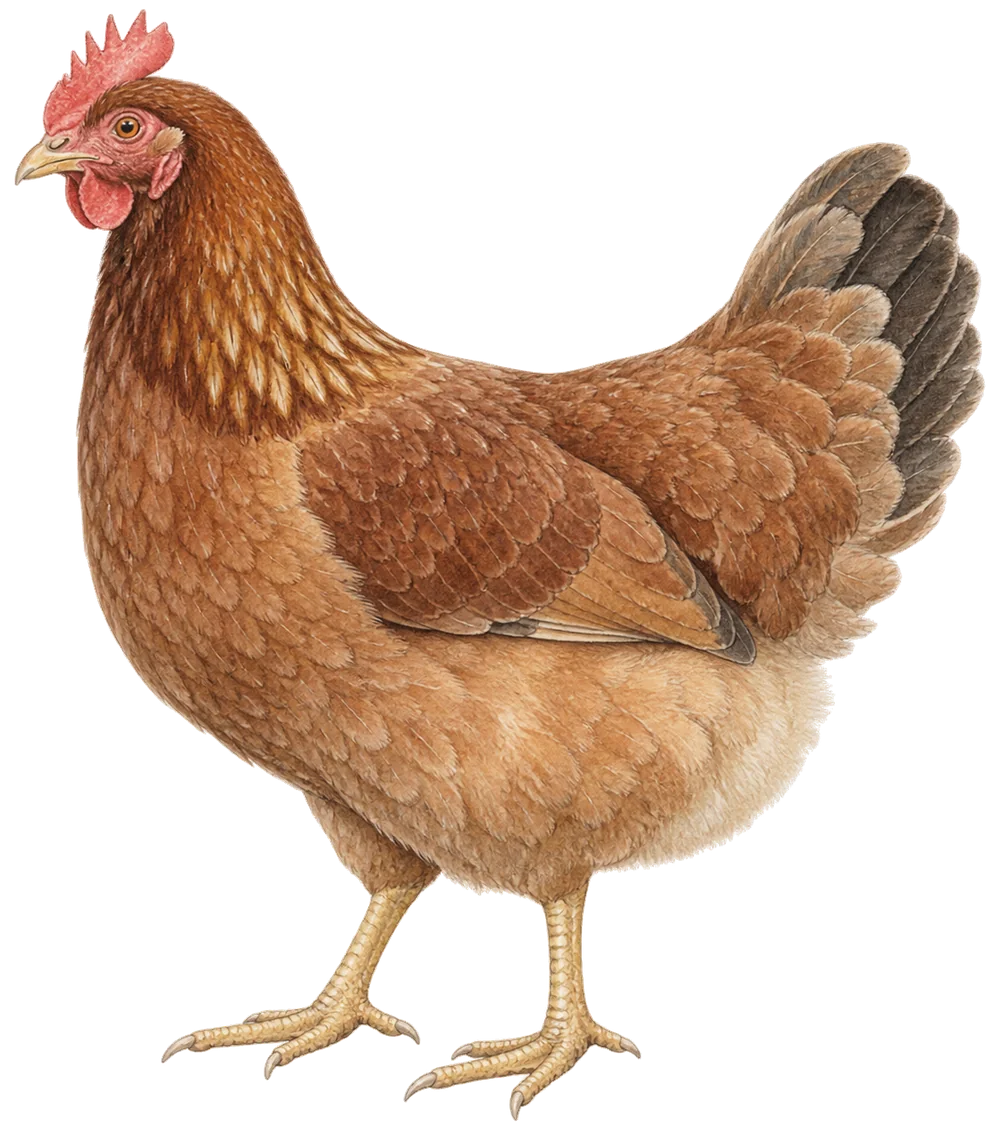
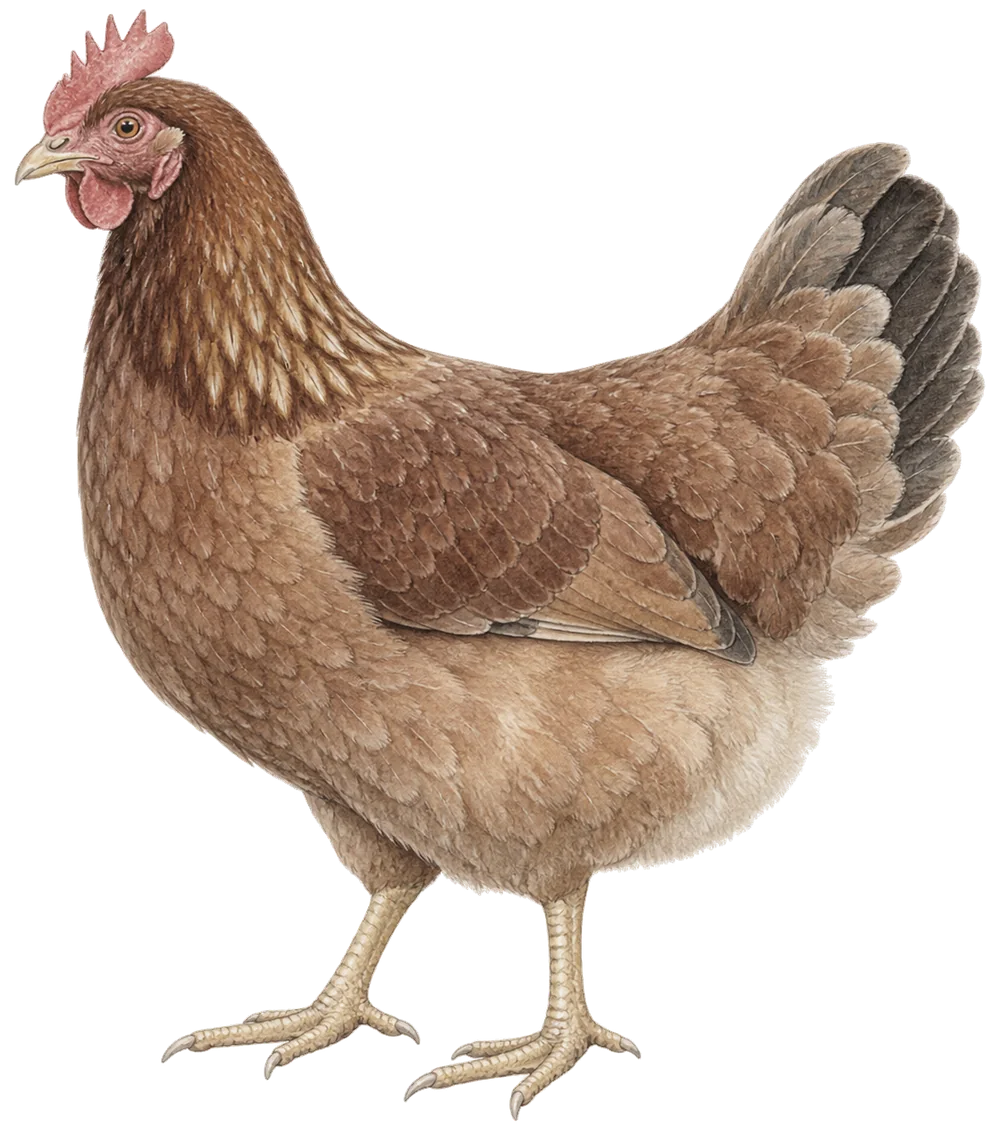
web: todas las ilustraciones en acuarela cientifica, con el mismo tono apagado

diff --git a/web/src/components/figura.tsx b/web/src/components/figura.tsx
@@ -70,7 +70,7 @@ export interface DefinicionFigura {
 export const FIGURAS: DefinicionFigura[] = [
   {
     id: "caja",
-    src: "/ilustraciones/caja-recipiente.webp",
+    src: "/acuarelas/caja-recipiente.webp",
     titulo: "La caja y su tapa, limpias y listas",
     alt: "Una caja plástica rectangular transparente con su tapa.",
     cuando: "Cuando pregunten qué caja sirve, de qué tamaño, o cómo empezar.",
@@ -88,7 +88,7 @@ export const FIGURAS: DefinicionFigura[] = [
   },
   {
     id: "ventilacion",
-    src: "/ilustraciones/caja-ventilacion.webp",
+    src: "/acuarelas/caja-ventilacion.webp",
     titulo: "La ventana de ventilación en la tapa",
     alt: "La tapa de la caja vista desde arriba, con una ventana rectangular cubierta de malla fina.",
     cuando:
@@ -96,14 +96,14 @@ export const FIGURAS: DefinicionFigura[] = [
   },
   {
     id: "sustrato",
-    src: "/ilustraciones/caja-sustrato.webp",
+    src: "/acuarelas/caja-sustrato.webp",
     titulo: "La cama pareja en el fondo",
     alt: "Un montón pequeño de sustrato seco de viruta y cartón picado.",
     cuando: "Cuando pregunten por la cama, el sustrato o qué poner en el fondo.",
   },
   {
     id: "refugios",
-    src: "/ilustraciones/caja-refugios.webp",
+    src: "/acuarelas/caja-refugios.webp",
     titulo: "Las hueveras paradas, como un acordeón",
     alt: "Dos hueveras de cartón puestas de pie, una junto a la otra.",
     cuando:
@@ -111,7 +111,7 @@ export const FIGURAS: DefinicionFigura[] = [
   },
   {
     id: "agua",
-    src: "/ilustraciones/caja-agua.webp",
+    src: "/acuarelas/caja-agua.webp",
     titulo: "El alimento y el agua, cada uno en lo suyo",
     alt: "Un bebedero pequeño con algodón húmedo en el plato y, al lado, un pedazo de manzana.",
     cuando:
@@ -137,7 +137,7 @@ export const FIGURAS: DefinicionFigura[] = [
   },
   {
     id: "donde-buscar",
-    src: "/ilustraciones/donde-buscar.webp",
+    src: "/acuarelas/donde-buscar.webp",
     titulo: "Dónde buscarlos: hojarasca, leña y piedra",
     alt: "Un rincón de patio con hojarasca acumulada, leña vieja apilada y un muro bajo de piedra, alumbrado por una linterna.",
     cuando:
@@ -145,7 +145,7 @@ export const FIGURAS: DefinicionFigura[] = [
   },
   {
     id: "trampa-vaso",
-    src: "/ilustraciones/trampa-vaso.webp",
+    src: "/acuarelas/trampa-vaso.webp",
     titulo: "Trampa de vaso enterrado",
     alt: "Corte del suelo: un vaso plástico enterrado a ras de tierra con un pedazo de fruta dentro, y encima una teja apoyada en dos piedras que deja un hueco de entrada y tapa la lluvia.",
     cuando:
@@ -153,7 +153,7 @@ export const FIGURAS: DefinicionFigura[] = [
   },
   {
     id: "atrapar-mano",
-    src: "/ilustraciones/atrapar-mano.webp",
+    src: "/acuarelas/atrapar-mano.webp",
     titulo: "Atraparlos a mano, sin apretar",
     alt: "Dos manos: una baja ahuecada sobre un grillo posado en el suelo y la otra espera al lado para cerrar el hueco entre ambas.",
     cuando:
@@ -161,7 +161,7 @@ export const FIGURAS: DefinicionFigura[] = [
   },
   {
     id: "trampa-carton",
-    src: "/ilustraciones/trampa-carton.webp",
+    src: "/acuarelas/trampa-carton.webp",
     titulo: "Cartón enrollado y huevera como refugio",
     alt: "Un pedazo de cartón corrugado enrollado y una huevera de cartón, con grillos metidos entre los pliegues.",
     cuando:
@@ -169,7 +169,7 @@ export const FIGURAS: DefinicionFigura[] = [
   },
   {
     id: "identificar",
-    src: "/ilustraciones/identificar.webp",
+    src: "/acuarelas/identificar.webp",
     titulo: "Grillo arriba, saltamontes abajo: mire las antenas",
     alt: "Dos insectos de perfil: arriba un grillo con antenas muy largas; abajo un saltamontes con antenas cortas.",
     cuando:
@@ -177,7 +177,7 @@ export const FIGURAS: DefinicionFigura[] = [
   },
   {
     id: "macho-hembra",
-    src: "/ilustraciones/macho-hembra.webp",
+    src: "/acuarelas/macho-hembra.webp",
     titulo: "La hembra lleva una aguja atrás; el macho no",
     alt: "Dos grillos de perfil: arriba una hembra con un ovipositor largo y recto saliendo del abdomen; abajo un macho sin él.",
     cuando:
@@ -185,7 +185,7 @@ export const FIGURAS: DefinicionFigura[] = [
   },
   {
     id: "ciclo",
-    src: "/ilustraciones/ciclo.webp",
+    src: "/acuarelas/ciclo.webp",
     titulo: "Huevo, ninfa y adulto",
     alt: "Tres etapas en fila: un huevo ovalado, una ninfa pequeña sin alas y un grillo adulto con alas.",
     cuando:
@@ -193,7 +193,7 @@ export const FIGURAS: DefinicionFigura[] = [
   },
   {
     id: "cosecha",
-    src: "/ilustraciones/cosecha.webp",
+    src: "/acuarelas/cosecha.webp",
     titulo: "Un cedazo para separar, un frasco para guardar",
     alt: "Un cedazo circular de marco de madera sobre una mesa y, al lado, un frasco de vidrio con tapa perforada.",
     cuando:
@@ -201,7 +201,7 @@ export const FIGURAS: DefinicionFigura[] = [
   },
   {
     id: "dieta-bore",
-    src: "/ilustraciones/ing-bore.webp",
+    src: "/acuarelas/ing-bore.webp",
     titulo: "D1: harina de bore",
     alt: "Una hoja grande de bore con un trozo de tallo y, al lado, un cuenco con harina fina.",
     cuando:
@@ -209,7 +209,7 @@ export const FIGURAS: DefinicionFigura[] = [
   },
   {
     id: "dieta-boton-oro",
-    src: "/ilustraciones/ing-boton-oro.webp",
+    src: "/acuarelas/ing-boton-oro.webp",
     titulo: "D2: harina de botón de oro",
     alt: "Una rama de botón de oro con dos flores y hojas lobuladas y, al lado, un cuenco con harina.",
     cuando:
@@ -217,7 +217,7 @@ export const FIGURAS: DefinicionFigura[] = [
   },
   {
     id: "dieta-salvado",
-    src: "/ilustraciones/ing-salvado.webp",
+    src: "/acuarelas/ing-salvado.webp",
     titulo: "D3: salvado de trigo",
     alt: "Un cuenco con salvado de trigo en escamas y, al lado, dos espigas de trigo.",
     cuando:
@@ -225,7 +225,7 @@ export const FIGURAS: DefinicionFigura[] = [
   },
   {
     id: "clima",
-    src: "/ilustraciones/caja-clima.webp",
+    src: "/acuarelas/caja-clima.webp",
     titulo: "El termómetro colgado adentro",
     alt: "Un termómetro-higrómetro digital pequeño.",
     cuando:

diff --git a/web/src/lib/content/enclosure.ts b/web/src/lib/content/enclosure.ts
@@ -110,56 +110,56 @@ export const MATERIALS: Material[] = [
 export const ENCLOSURE_STEPS: EnclosureStep[] = [
   {
     number: 1,
-    imagen: "/ilustraciones/caja-recipiente.webp",
+    imagen: "/acuarelas/caja-recipiente.webp",
     title: "Prepare la caja",
     body: "Lávela con agua y jabón suave, sin cloro fuerte, y séquela bien al sol. Revise que no tenga huecos ni grietas.",
     tip: "Los productos de olor fuerte, como el límpido puro, afectan a los grillos.",
   },
   {
     number: 2,
-    imagen: "/ilustraciones/caja-ventilacion.webp",
+    imagen: "/acuarelas/caja-ventilacion.webp",
     title: "Abra la ventilación",
     body: "Recorte un cuadrado grande en la tapa, dejando un marco de unos 4 cm. Pegue la malla por dentro, bien estirada, con silicona o cinta resistente.",
     tip: "Sin buena ventilación se acumula humedad y los grillos se enferman.",
   },
   {
     number: 3,
-    imagen: "/ilustraciones/caja-sustrato.webp",
+    imagen: "/acuarelas/caja-sustrato.webp",
     title: "Ponga el sustrato",
     body: "Cubra el fondo con una capa delgada de material seco. Ayuda a mantener la caja seca y facilita la limpieza.",
     tip: "No use materiales húmedos ni con olor a moho.",
   },
   {
     number: 4,
-    imagen: "/ilustraciones/caja-refugios.webp",
+    imagen: "/acuarelas/caja-refugios.webp",
     title: "Arme los refugios",
     body: "Coloque las hueveras de cartón paradas o cruzadas, formando túneles. Deje libre una esquina para el alimento y el agua.",
     tip: "Con más refugios hay menos peleas y mejor crecimiento.",
   },
   {
     number: 5,
-    imagen: "/ilustraciones/caja-alimento.webp",
+    imagen: "/acuarelas/caja-alimento.webp",
     title: "Ponga el alimento",
     body: "En la esquina libre, ponga una tapa o un plato bajo con la comida que esté usando.",
     tip: "Retire la comida vieja cada dos o tres días.",
   },
   {
     number: 6,
-    imagen: "/ilustraciones/caja-agua.webp",
+    imagen: "/acuarelas/caja-agua.webp",
     title: "Ponga el agua",
     body: "Ofrezca pedazos de manzana fresca. Si usa bebedero, póngale algodón o piedras pequeñas para que no se ahoguen.",
     tip: "Cambie el agua y la manzana cada dos días.",
   },
   {
     number: 7,
-    imagen: "/ilustraciones/caja-clima.webp",
+    imagen: "/acuarelas/caja-clima.webp",
     title: "Vigile el clima",
     body: "Ponga el termómetro-higrómetro dentro de la caja, en un lugar visible. Ubique la caja en un sitio tranquilo, sin sol directo ni corrientes de aire frío.",
     tip: "Si en la noche hace mucho frío, cubra parte de la caja con un trapo.",
   },
   {
     number: 8,
-    imagen: "/ilustraciones/caja-limpieza.webp",
+    imagen: "/acuarelas/caja-limpieza.webp",
     title: "Mantenga la caja limpia",
     body: "Cada dos o tres días retire la comida vieja y los grillos muertos. Cada semana limpie el fondo y cambie el sustrato si está sucio.",
     tip: "Si hay mal olor o charcos, aumente la ventilación y revise los bebederos.",

diff --git a/web/src/lib/animals.ts b/web/src/lib/animals.ts
@@ -33,19 +33,19 @@ export const CATEGORIAS: Categoria[] = [
   {
     id: "peces",
     name: "Peces",
-    image: "/ilustraciones/tilapia.webp",
+    image: "/acuarelas/tilapia.webp",
     pregunta: "¿Qué pez cría?",
   },
   {
     id: "aves",
     name: "Aves",
-    image: "/ilustraciones/pollo-engorde.webp",
+    image: "/acuarelas/pollo-engorde.webp",
     pregunta: "¿Qué tipo de ave cría?",
   },
   {
     id: "cerdos",
     name: "Cerdos",
-    image: "/ilustraciones/cerdo.webp",
+    image: "/acuarelas/cerdo.webp",
     pregunta: "¿En qué etapa están sus cerdos?",
   },
 ];
@@ -87,7 +87,7 @@ export const ANIMALS: AnimalDestino[] = [
     category: "peces",
     name: "Tilapia",
     scientific: "Oreochromis niloticus",
-    image: "/ilustraciones/tilapia.webp",
+    image: "/acuarelas/tilapia.webp",
     stages: [
       { id: "alevin", name: "Alevín", detail: "1 a 10 g", protein: { min: 35, max: 40, refs: ["fao-affris-tilapia"], nota: "Valores para tilapia del Nilo. No encontramos una fuente revisada específica para tilapia roja." } },
       { id: "juvenil", name: "Juvenil", detail: "10 a 25 g", protein: { min: 30, max: 35, refs: ["fao-affris-tilapia"], nota: "Valores para tilapia del Nilo. No encontramos una fuente revisada específica para tilapia roja." }, alias: ["crecimiento"] },
@@ -155,7 +155,7 @@ export const ANIMALS: AnimalDestino[] = [
     id: "pollo",
     category: "aves",
     name: "Pollo de engorde",
-    image: "/ilustraciones/pollo-engorde.webp",
+    image: "/acuarelas/pollo-engorde.webp",
     stages: [
       { id: "inicio", name: "Inicio", detail: "0 a 3 semanas", protein: { min: 23, max: 23, refs: ["nrc-1994-aves"], nota: "El NRC aclara que son niveles típicos de una dieta de maíz y soya." } },
       { id: "crecimiento", name: "Crecimiento", detail: "3 a 6 semanas", protein: { min: 20, max: 20, refs: ["nrc-1994-aves"], nota: "El NRC aclara que son niveles típicos de una dieta de maíz y soya." } },
@@ -180,7 +180,7 @@ export const ANIMALS: AnimalDestino[] = [
     id: "cerdo",
     category: "cerdos",
     name: "Cerdo",
-    image: "/ilustraciones/cerdo.webp",
+    image: "/acuarelas/cerdo.webp",
     stages: [
       { id: "inicio", name: "Inicio", detail: "5 a 11 kg", protein: { min: 22, max: 26, refs: ["msd-nrc-2012-cerdos"], nota: "Proteína aproximada para una dieta de maíz y soya; el NRC 2012 fija las necesidades en aminoácidos." } },
       { id: "crecimiento", name: "Levante", detail: "11 a 50 kg", protein: { min: 19.3, max: 23, refs: ["msd-nrc-2012-cerdos"], nota: "Proteína aproximada para una dieta de maíz y soya; el NRC 2012 fija las necesidades en aminoácidos." } },

diff --git a/web/src/components/grillos-pestanas.tsx b/web/src/components/grillos-pestanas.tsx
@@ -59,7 +59,7 @@ export function GrillosPestanas() {
                 b: f.saltamontes,
               }))}
               lamina={{
-                src: "/ilustraciones/identificar.webp",
+                src: "/acuarelas/identificar.webp",
                 alt: "Un grillo, de antenas largas, arriba, y un saltamontes, de antenas cortas, abajo.",
                 pie: "Arriba, un grillo; abajo, un saltamontes.",
               }}
@@ -76,7 +76,7 @@ export function GrillosPestanas() {
               columnas={["Hembra", "Macho"]}
               filas={MACHO_HEMBRA.map((f) => ({ rasgo: f.rasgo, a: f.hembra, b: f.macho }))}
               lamina={{
-                src: "/ilustraciones/macho-hembra.webp",
+                src: "/acuarelas/macho-hembra.webp",
                 alt: "Una hembra, arriba, con una aguja larga y recta al final del cuerpo, y un macho, abajo, sin ella.",
                 pie: "Arriba, la hembra con su ovipositor; abajo, el macho.",
               }}
@@ -225,7 +225,7 @@ function Crecimiento() {
         <figure className="lg:col-span-5">
           <div className="relative mx-auto h-32 w-full max-w-[420px] sm:h-40">
             <Image
-              src="/ilustraciones/ciclo.webp"
+              src="/acuarelas/ciclo.webp"
               alt="El ciclo de vida del grillo: huevo, ninfa sin alas y adulto con alas."
               fill
               sizes="(max-width: 1024px) 90vw, 420px"
@@ -332,7 +332,7 @@ function ImportanciaCaptura() {
           <h3 className="t-h2">Dónde buscarlos</h3>
           <div className="relative mt-6 h-44 w-full max-w-[360px]">
             <Image
-              src="/ilustraciones/donde-buscar.webp"
+              src="/acuarelas/donde-buscar.webp"
               alt="Hojarasca, leña vieja y piedras, donde se esconden los grillos."
               fill
               sizes="360px"

diff --git a/web/src/components/tres-comidas.tsx b/web/src/components/tres-comidas.tsx
@@ -17,9 +17,9 @@ import { cn } from "@/lib/utils";
  * cajas de la misma altura y la misma area, para que pesen igual.
  */
 const DIBUJO: Record<string, string> = {
-  D1: "/ilustraciones/ing-bore.webp",
-  D2: "/ilustraciones/ing-boton-oro.webp",
-  D3: "/ilustraciones/ing-salvado.webp",
+  D1: "/acuarelas/ing-bore.webp",
+  D2: "/acuarelas/ing-boton-oro.webp",
+  D3: "/acuarelas/ing-salvado.webp",
 };
 
 const QUE_ES: Record<string, string> = {
@@ -29,8 +29,8 @@ const QUE_ES: Record<string, string> = {
 };
 
 const BASE_DIBUJO: Record<string, string> = {
-  "Harina de maíz": "/ilustraciones/ing-maiz.webp",
-  "Avena molida": "/ilustraciones/ing-avena.webp",
+  "Harina de maíz": "/acuarelas/ing-maiz.webp",
+  "Avena molida": "/acuarelas/ing-avena.webp",
 };
 
 /** "30 % de harina de maíz + 20 % de avena molida" */

diff --git a/web/src/components/lamina-normalizada.tsx b/web/src/components/lamina-normalizada.tsx
@@ -12,15 +12,15 @@ import { cn } from "@/lib/utils";
  * parejas a la vista.
  */
 const PROPORCION: Record<string, number> = {
-  "/ilustraciones/tilapia.webp": 1.63,
-  "/ilustraciones/pollo-engorde.webp": 0.98,
+  "/acuarelas/tilapia.webp": 1.63,
+  "/acuarelas/pollo-engorde.webp": 0.98,
   "/acuarelas/gallina.webp": 0.98,
-  "/ilustraciones/cerdo.webp": 1.95,
-  "/ilustraciones/ing-bore.webp": 0.93,
-  "/ilustraciones/ing-boton-oro.webp": 1.16,
-  "/ilustraciones/ing-salvado.webp": 1.58,
-  "/ilustraciones/ing-maiz.webp": 1.33,
-  "/ilustraciones/ing-avena.webp": 0.91,
+  "/acuarelas/cerdo.webp": 1.95,
+  "/acuarelas/ing-bore.webp": 0.93,
+  "/acuarelas/ing-boton-oro.webp": 1.16,
+  "/acuarelas/ing-salvado.webp": 1.58,
+  "/acuarelas/ing-maiz.webp": 1.33,
+  "/acuarelas/ing-avena.webp": 0.91,
 };
 
 /**

diff --git a/web/src/components/resultado.tsx b/web/src/components/resultado.tsx
@@ -55,9 +55,9 @@ import { cn } from "@/lib/utils";
  */
 
 const DIBUJO: Record<string, string> = {
-  D1: "/ilustraciones/ing-bore.webp",
-  D2: "/ilustraciones/ing-boton-oro.webp",
-  D3: "/ilustraciones/ing-salvado.webp",
+  D1: "/acuarelas/ing-bore.webp",
+  D2: "/acuarelas/ing-boton-oro.webp",
+  D3: "/acuarelas/ing-salvado.webp",
 };
 
 /** Preguntas que abren el asistente ya escritas. */
